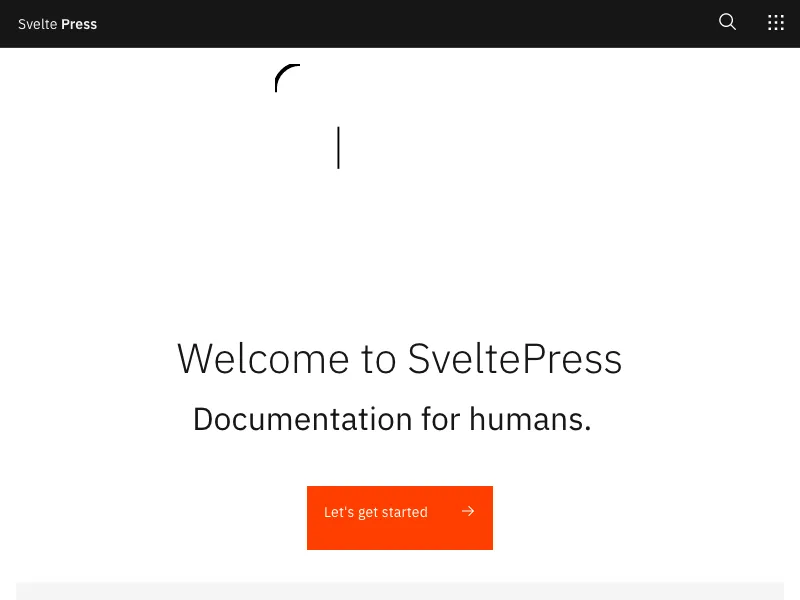
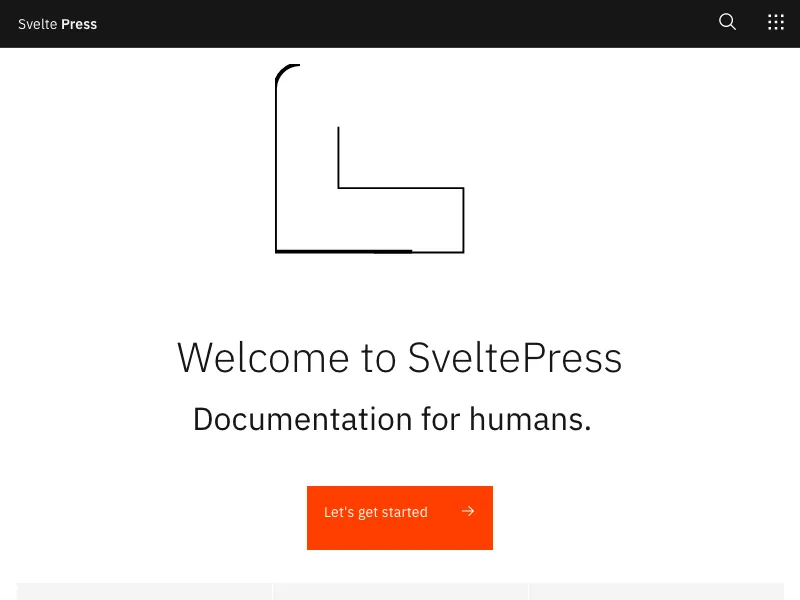
takeScreenshots.js wait 1s for sites with landing animations to settle

Changed region(s): [[0.2188, 0.57, 0.7812, 0.63], [0.3438, 0.39, 0.5625, 0.45], [0.4062, 0.3, 0.5938, 0.42]]

diff --git a/site/scripts/takeScreenshots.js b/site/scripts/takeScreenshots.js
@@ -17,7 +17,7 @@ const updateExisting = process.argv[2] === `update-existing`
 
 if (updateExisting) console.log(`Updating all existing screenshots`)
 
-let nChanged = 0
+let [nNew, nUpdated] = [0, 0]
 
 console.time(`Finished taking screenshots`)
 
@@ -25,8 +25,9 @@ for (const [idx, site] of sites.entries()) {
   const id = site.title.toLowerCase().replaceAll(` `, `-`)
 
   const imgPath = `${rootDir}/site/static/screenshots/${id}.webp`
+  const imgExists = fs.existsSync(imgPath)
 
-  if (!updateExisting && fs.existsSync(imgPath)) {
+  if (!updateExisting && imgExists) {
     continue
   }
 
@@ -38,12 +39,15 @@ for (const [idx, site] of sites.entries()) {
     await page.goto(site.url, { timeout: 5000, waitUntil: `load` })
   }
 
+  await page.waitForTimeout(1000) // wait 1s for sites with landing animations to settle
+  // e.g. https://mortimerbaltus.com, https://flayks.com
   await page.screenshot({ path: imgPath })
 
-  nChanged += 1
+  if (imgExists) nUpdated += 1
+  else nNew += 1
 }
 
 await browser.close()
 
 console.timeEnd(`Finished taking screenshots`)
-console.log(`  - ${nChanged} new/updated screenshots`)
+console.log(`  - ${nNew} new, ${nUpdated} updated`)
